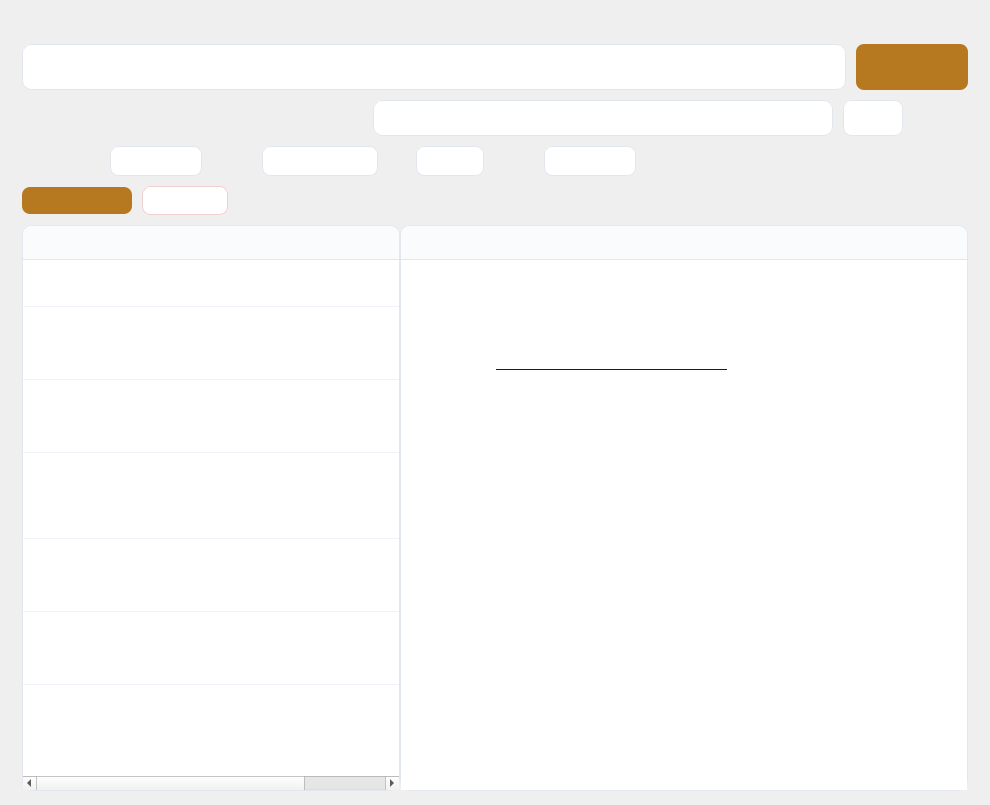
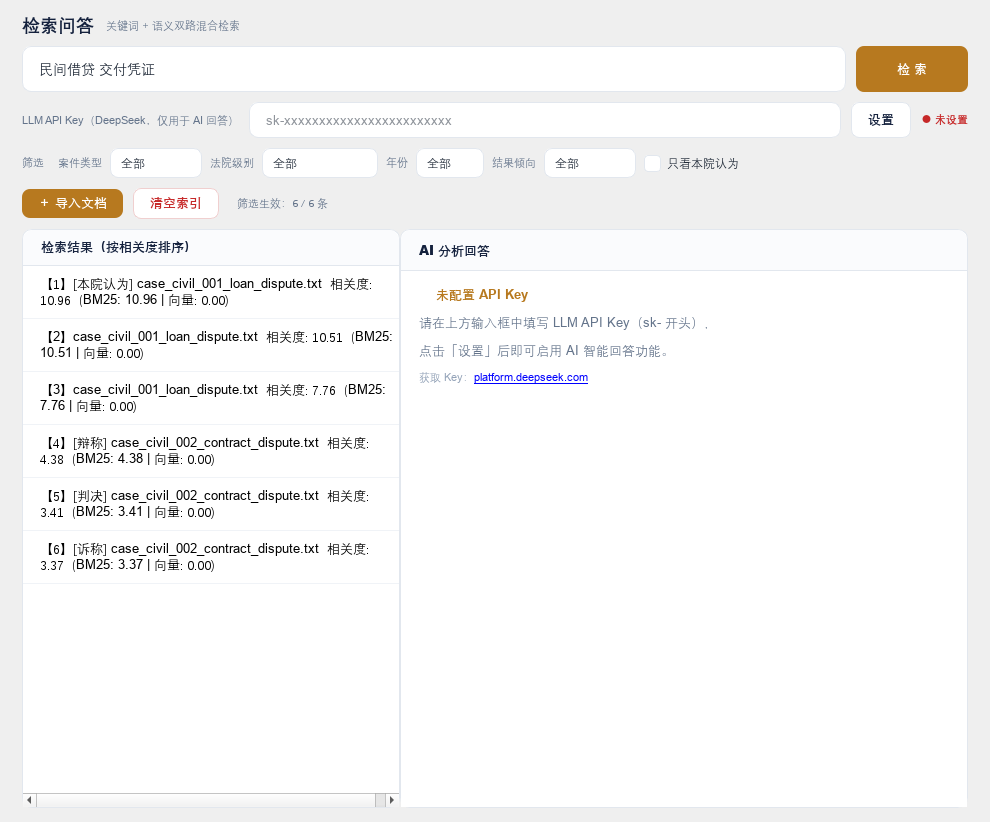
fix(T5): v2 旧索引加载后免费重算角色 + 补提交带字版证据截图
- Retriever::loadIndex：v2 旧文件无角色字节（chunkRoles 与 chunks 数目不齐）时，
  按同一 annotateChunkRoles 算法对块文本重算标注——原先 load 后全 Unknown 会在
  下次落盘被 v3 固化，升级用户「只看本院认为」将静默为空；现在平滑迁移不回退
- 新增回归：手写 v2 字节流（对齐 save() 真实字段序，含分块段前的块数字段）
  + 同款 CRC-32 → load 后角色恢复（诉称 / 认定|主文并集），再落盘读回仍在
- 补提交 docs/screenshots 07/13/14 带字版（此前误用无 QT_QPA_FONTDIR 的离屏
  渲染覆盖成无字图，T5 踩坑记录已钉死该环境变量）

测试：run_tests 83/83（新增 1）；ui_smoke --e2e 全过；eval 指标与基线一致

diff --git a/test/test_main.cpp b/test/test_main.cpp
@@ -2284,6 +2284,101 @@ void test_t5_persistence_roles_roundtrip() {
     PASS();
 }
 
+// ── v2 索引文件手工构造（T5 迁移测试用）──
+// 字节布局与 index_store.cpp 头部格式注释一一对应（v2 = 块不带角色字节）。
+namespace {
+
+void twU8(std::string& b, std::uint8_t v)  { b.push_back(static_cast<char>(v)); }
+void twU32(std::string& b, std::uint32_t v) {
+    for (int i = 0; i < 4; ++i) b.push_back(static_cast<char>((v >> (8 * i)) & 0xFF));
+}
+void twU64(std::string& b, std::uint64_t v) {
+    for (int i = 0; i < 8; ++i) b.push_back(static_cast<char>((v >> (8 * i)) & 0xFF));
+}
+void twStr(std::string& b, const std::string& s) {
+    twU32(b, static_cast<std::uint32_t>(s.size()));
+    b += s;
+}
+/// 与 index_store.cpp 同款 CRC-32（多项式 0xEDB88320，位翻转型实现等价）
+std::uint32_t twCrc32(const std::string& s) {
+    std::uint32_t crc = 0xFFFFFFFFu;
+    for (unsigned char c : s) {
+        crc ^= c;
+        for (int k = 0; k < 8; ++k) {
+            crc = (crc & 1) ? (0xEDB88320u ^ (crc >> 1)) : (crc >> 1);
+        }
+    }
+    return crc ^ 0xFFFFFFFFu;
+}
+
+}  // namespace
+
+void test_t5_v2_index_roles_reannotated() {
+    TEST("T5 补：v2 旧索引加载后免费重算角色（不固化全 Unknown）");
+    const std::string indexPath = "build/test_t5_v2_migrate.dat";
+
+    // 两个块：诉称段 + 「本院认为……判决如下」跨段块
+    const std::string chunk1 = "原告张某某诉称：被告于二〇二三年向其借款十万元至今未还，请求判令偿还。";
+    const std::string chunk2 = "本院认为，合法借贷关系受法律保护，借款事实清楚。判决如下：被告于本判决生效之日起十日内偿还原告借款。";
+    const std::string fullText = chunk1 + chunk2;
+
+    // 手写 v2 字节流（无角色字节）+ 正确 CRC
+    std::string payload;
+    payload += "LRAGIDX1";
+    twU32(payload, 2);                       // version = 2
+    twU32(payload, 1);                       // docCount
+    twStr(payload, "case_v2_migrate.txt");
+    twStr(payload, "build/v2_src/case_v2_migrate.txt");
+    twStr(payload, "2026-10-06 12:00:00");
+    twU32(payload, 2);                       // chunkCount
+    twU64(payload, fullText.size());         // byteSize
+    twU8(payload, 0);                        // ocr = false
+    twStr(payload, "");                      // caseNumber
+    twStr(payload, "");                      // court
+    twStr(payload, "");                      // date
+    twStr(payload, "");                      // caseType
+    twStr(payload, "");                      // litigants
+    twStr(payload, "");                      // procedure
+    twStr(payload, "");                      // tendency
+    twU64(payload, fullText.size());         // fullTextLen
+    payload += fullText;
+    twU32(payload, 2);                       // 分块段前的块数（load 侧 storedChunkCount）
+    twStr(payload, chunk1);
+    twStr(payload, chunk2);                  // v2：块后无角色字节
+    std::string file = payload;
+    twU32(file, twCrc32(payload));
+    {
+        std::ofstream f(indexPath, std::ios::binary);
+        f << file;
+    }
+
+    rag::Retriever r;
+    r.setIndexFilePath(indexPath);
+    const auto loaded = r.loadIndex();
+    if (!loaded.ok) {
+        std::cout << "    (load 诊断: " << loaded.diagnostic << ") ";
+    }
+    CHECK(loaded.ok);
+    CHECK_EQ(r.documentCount(), 1);
+
+    // 角色按同一算法免费重算，而不是全 Unknown
+    CHECK(r.getChunkRole("case_v2_migrate.txt", 0) == document::ChunkRole::PlaintiffClaims);
+    const int merged = static_cast<int>(r.getChunkRole("case_v2_migrate.txt", 1));
+    CHECK((merged & static_cast<int>(document::ChunkRole::CourtOpinion)) != 0);
+    CHECK((merged & static_cast<int>(document::ChunkRole::Judgment)) != 0);
+
+    // 再落盘升级为 v3 → 全新实例读回角色仍在（迁移不回退）
+    CHECK(r.saveIndex().ok);
+    rag::Retriever reader;
+    reader.setIndexFilePath(indexPath);
+    CHECK(reader.loadIndex().ok);
+    CHECK((static_cast<int>(reader.getChunkRole("case_v2_migrate.txt", 1))
+           & static_cast<int>(document::ChunkRole::CourtOpinion)) != 0);
+
+    reader.clearAll(true);   // 连落盘文件一并清掉
+    PASS();
+}
+
 void test_t5_corpus_role_distribution() {
     TEST("T5：21 篇语料全量标注（每篇均有法院认定块与主文块）");
     rag::Retriever r;
@@ -2456,6 +2551,7 @@ void run_all_tests() {
     test_t5_role_annotation_real_parse();
     test_t5_search_results_carry_role();
     test_t5_persistence_roles_roundtrip();
+    test_t5_v2_index_roles_reannotated();
     test_t5_corpus_role_distribution();
 
     std::cout << "\n";

diff --git a/src/rag/retriever.cpp b/src/rag/retriever.cpp
@@ -739,6 +739,27 @@ PersistResult Retriever::loadIndex() {
             doc.chunkRoles.push_back(static_cast<document::ChunkRole>(role));   // T5
         }
 
+        // T5 补丁：v2 旧索引没有角色字节（chunkRoles 与 chunks 数目不齐）。
+        // 块文本完整在手，按同一标注算法免费重算，而不是把"全 Unknown"
+        // 在下次落盘时固化进 v3 文件——否则升级后「只看本院认为」会静默为空。
+        if (doc.chunkRoles.size() != doc.chunks.size()) {
+            std::vector<document::TextChunk> reannotated;
+            reannotated.reserve(doc.chunks.size());
+            for (std::size_t ci = 0; ci < doc.chunks.size(); ++ci) {
+                document::TextChunk tc;
+                tc.docId = doc.docId;
+                tc.chunkIndex = static_cast<int>(ci);
+                tc.content = doc.chunks[ci];
+                reannotated.push_back(std::move(tc));
+            }
+            document::annotateChunkRoles(reannotated);
+            doc.chunkRoles.clear();
+            doc.chunkRoles.reserve(reannotated.size());
+            for (const auto& tc : reannotated) {
+                doc.chunkRoles.push_back(tc.role);
+            }
+        }
+
         if (doc.chunks.empty()) continue;
 
         indexDocument(doc);
